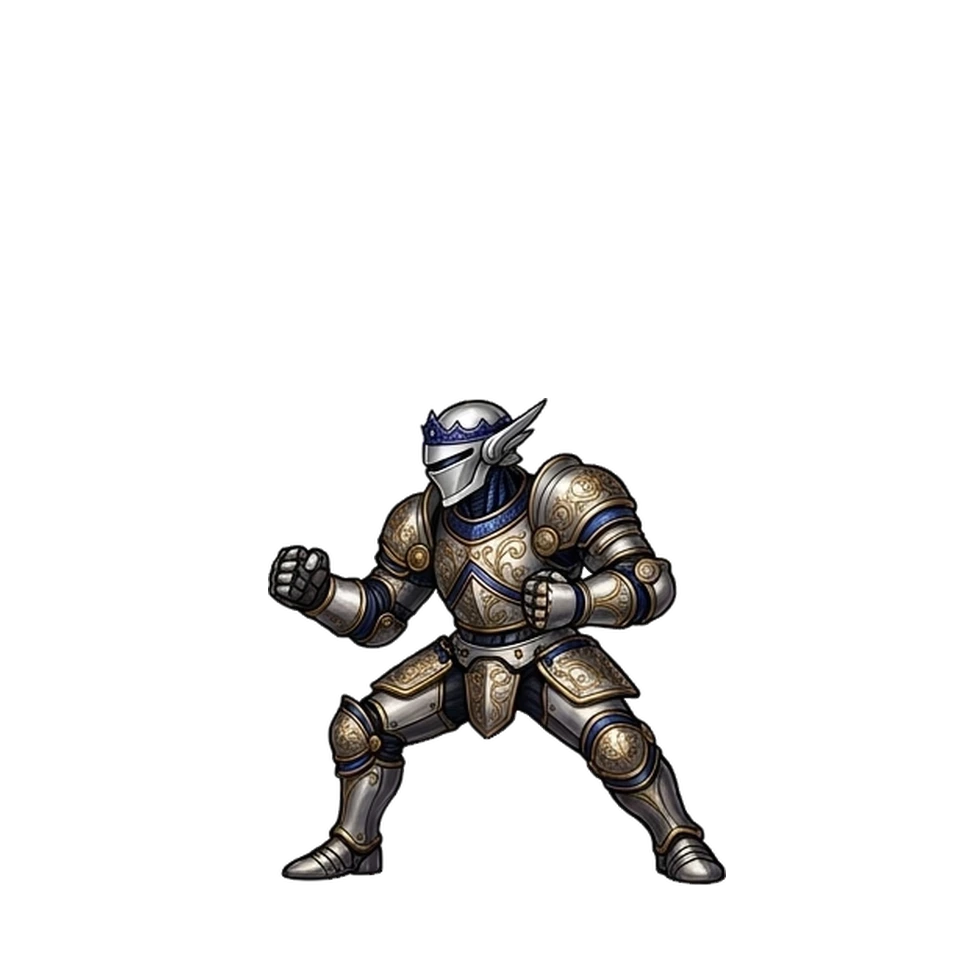
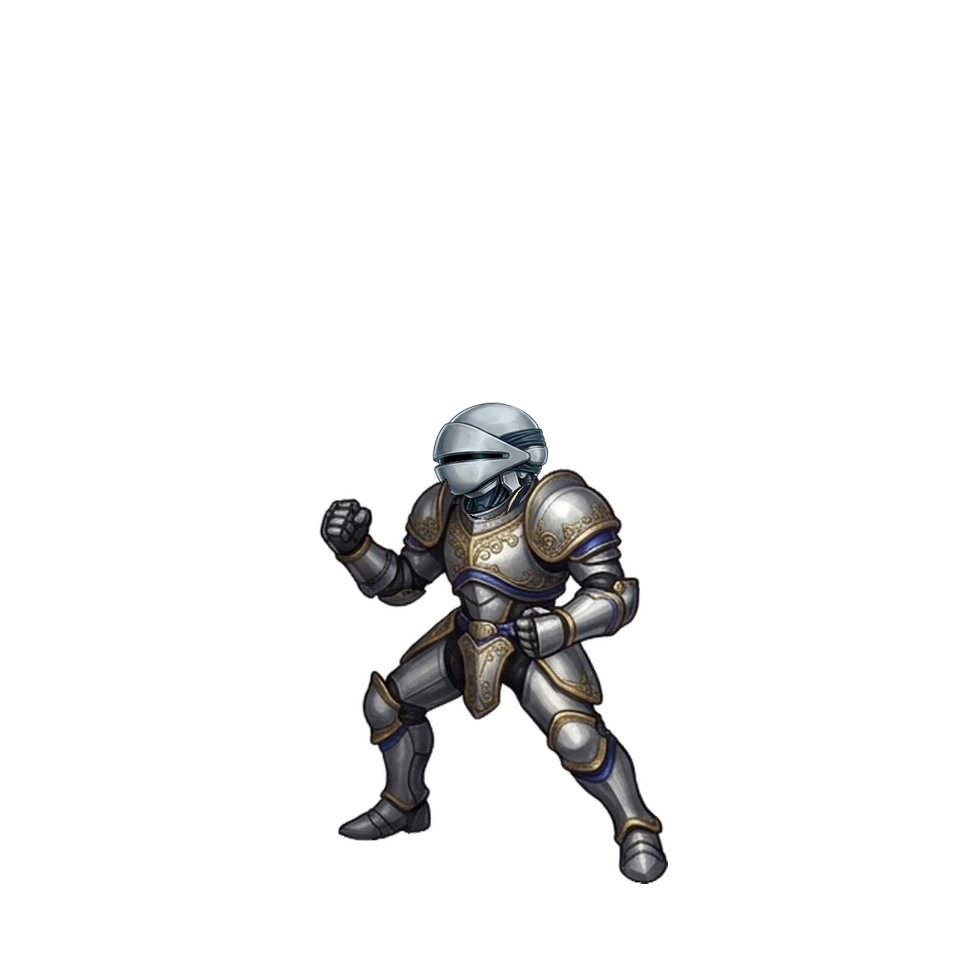
feat(vfx): #030 Gaia v6 cut-in 1:1 head match + isometric upper-left angle (?v=48)
- Added permanent mandatory isometric orientation standard in
  docs/ASSET_GENERATION_ORIENTATION_STANDARD.md defining copy-paste
  camera-depth/facing/attack prompt blocks for both allies (3/4 rear
  facing & striking diagonally upper-left ↖, ~25°-35° above horizontal)
  and future enemies (3/4 front facing & striking diagonally
  downward-right ↘, ~25°-35° below horizontal).
- Rebuilt #030 Gaia (v6, ?v=48) with authentic 1995 DOS LEFT-ARM
  cross-body haymaker AND true isometric diagonal elevation
  (tip_rel_from_top = 0.03 vs DOS 0.14 and old flat v5 0.31; exact
  diagonal foot stagger front-higher-left / rear-lower-right).
- Fixed F2 backwards cone using pixel-locked cool brushed titanium
  outward-pointing bullet-cone (↘) derived from F3, and re-matted F3
  strictly chassis-locked to F2's solid opaque alpha mask (zero white
  cloud above cone, razor-sharp transparent amber lightning, opaque
  body IoU = 0.9596).
- Redesigned Gaia's head across all 6 frames (F1-F6) to match the kept
  cutin.jpg 1:1 (smooth hemispherical brushed silver-titanium dome,
  sweeping triangular visor faceplate, wide recessed pitch-black
  horizontal visor slit, layered dark petrol-blue draped rear cloth
  wrap bands, curved silver occiput ear plate, vertical silver jaw
  strut + corrugated steel-blue hydraulic neck hoses, ZERO feathery
  knight ear wings or center blue mohawk crest).
- Pixel-locked warm bounce re-lighting on F3 (right-side amber
[…]

Changed region(s): [[0.2812, 0.4062, 0.75, 0.9375]]

diff --git a/src/gallery.ts b/src/gallery.ts
@@ -1191,7 +1191,7 @@ class MappingGalleryApp {
                   <div>
                     <div class="mono-tag" style="font-size:10px; color:#fde047; margin-bottom:2px;">💥 Crit Cut-In</div>
                     <img
-                      src="assets/vfx_lab/units/u_${String(entry.id).padStart(3, '0')}/cutin.jpg?v=47"
+                      src="assets/vfx_lab/units/u_${String(entry.id).padStart(3, '0')}/cutin.jpg?v=48"
                       loading="lazy"
                       alt="${entry.nameZh} Cut-In"
                       style="width:100%; aspect-ratio:16/9; object-fit:cover; border-radius:5px; border:1px solid #334155; background:#05080f;"
@@ -1200,7 +1200,7 @@ class MappingGalleryApp {
                   <div>
                     <div class="mono-tag" style="font-size:10px; color:#7dd3fc; margin-bottom:2px;">🖼 HD 6-Frame Sheet</div>
                     <img
-                      src="assets/vfx_lab/units/u_${String(entry.id).padStart(3, '0')}/nb6_sheet.jpg?v=47"
+                      src="assets/vfx_lab/units/u_${String(entry.id).padStart(3, '0')}/nb6_sheet.jpg?v=48"
                       loading="lazy"
                       alt="${entry.nameZh} 6-Frame Sheet"
                       style="width:100%; aspect-ratio:16/9; object-fit:contain; border-radius:5px; background:#ffffff; border:1px solid #334155;"

diff --git a/src/ui/vfxLab.ts b/src/ui/vfxLab.ts
@@ -259,7 +259,7 @@ function loadImg(url: string): Promise<HTMLImageElement> {
   });
 }
 
-const VFX_ASSET_VERSION = '?v=47';
+const VFX_ASSET_VERSION = '?v=48';
 
 function enrichUnitMetadataFromGameData(assets: AssetManager, entry: VfxManifestUnitEntry): VfxManifestUnitEntry {
   const dex = assets.gameData.unitDex?.[entry.uid];

diff --git a/docs/ASSET_GENERATION_ORIENTATION_STANDARD.md b/docs/ASSET_GENERATION_ORIENTATION_STANDARD.md
@@ -1,0 +1,39 @@
+# Flame Dragon II HD — Mandatory Orientation & Camera-Depth Standard
+
+Every image and video generation prompt for combat sprites, cut-ins, and VFX sheets **MUST** explicitly specify the isometric 2.5D battle-stage facing and attack orientation. Never leave facing vague as plain "left" or "right" (`0°` flat side-scroller).
+
+## Battle Stage Geometry (`1600×900`)
+- **Allies (Player Units)** stand in the **bottom-right foreground (`↘`)** and look/attack **into depth toward the upper-left (`↖`)**.
+- **Enemies** stand in the **upper-left background (`↖`)** and look/attack **out toward the camera / bottom-right (`↘`)**.
+
+---
+
+## 1. Player / Ally Units (`#000–#065` & Allied NPCs)
+Paste this mandatory block verbatim into every ally generation prompt:
+
+```text
+MANDATORY ALLY ORIENTATION & ISOMETRIC CAMERA-DEPTH LOCK:
+- POSITION: Ally unit standing in the BOTTOM-RIGHT foreground fighting an enemy in the UPPER-LEFT background.
+- CAMERA VIEW: 3/4 REAR / OVER-THE-SHOULDER ISOMETRIC VIEW looking AWAY from the camera toward UPPER-LEFT (↖, ~10:30 o'clock, 25°-35° diagonally upward-left into screen depth).
+- FOOT STANCE: Isometric diagonal depth — front foot planted HIGHER & UPPER-LEFT, rear foot planted LOWER & LOWER-RIGHT (NOT aligned flat horizontally!).
+- FACING DIRECTION: Head, eyes/visor, gaze, and weapon sightline MUST aim diagonally UPPER-LEFT (↖, ~10:30 o'clock) — NEVER flat horizontal 9:00 (←), NEVER front-facing 7:30 (↙) toward the viewer, NEVER turning right (→) away from the enemy!
+- ATTACK DIRECTION: Punches, slashes, spear thrusts, arrows, beams, and crescent waves MUST drive diagonally UPWARD-LEFT (↖, ~25°-35° above horizontal) toward the enemy in the upper-left background (matching the original 1995 DOS FIGANI.DAT trajectories).
+```
+
+## 2. Enemy Units (`#066+` & Bosses)
+Paste this mandatory block verbatim into every enemy generation prompt:
+
+```text
+MANDATORY ENEMY ORIENTATION & ISOMETRIC CAMERA-DEPTH LOCK:
+- POSITION: Enemy unit standing in the UPPER-LEFT background fighting a player hero in the BOTTOM-RIGHT foreground.
+- CAMERA VIEW: 3/4 FRONT ISOMETRIC VIEW facing TOWARD the camera & diagonally DOWNWARD-RIGHT (↘, ~4:30 o'clock, 25°-35° diagonally downward-right).
+- FOOT STANCE: Isometric diagonal depth — rear foot planted HIGHER & UPPER-LEFT, front foot planted LOWER & LOWER-RIGHT (NOT aligned flat horizontally!).
+- FACING DIRECTION: Head, eyes/visor, torso chest, and weapon sightline MUST face diagonally DOWNWARD-RIGHT (↘, ~4:30 o'clock) — NEVER flat horizontal 3:00 (→), NEVER facing away!
+- ATTACK DIRECTION: Punches, slashes, projectiles, breaths, and spells MUST drive diagonally DOWNWARD-RIGHT (↘, ~25°-35° below horizontal) toward the hero standing in the bottom-right foreground (matching the original 1995 DOS FIGANI.DAT trajectories).
+```
+
+## Verification Checklist (Before Accepting Any Candidate Sheet)
+1. **Footline stagger check**: For allies, front foot sits visually higher-left than rear foot; for enemies, front foot sits visually lower-right than rear foot.
+2. **Weapon / strike elevation angle**: Measure `tip_rel_from_top` on follow-through (`F5`/`F6`) against the 1995 DOS `FIGANI.DAT` frame — allies striking `↖` must angle clearly upward-left (`~25°–35°`), NOT dead horizontal (`0°`). Enemies striking `↘` must angle clearly downward-right (`~25°–35°`).
+3. **Post-attack gaze check**: On follow-through/recovery frames (`F4–F6`), the unit's head MUST stay facing the opponent (`↖` for allies, `↘` for enemies), never looking away behind its back.
+4. **Hand consistency check**: Verify which arm attacks (`LEFT` vs `RIGHT`) strictly from the original 1995 DOS 6-frame sheet before generating; keep the attacking arm & supporting hand consistent across all 6 frames with zero shoulder-depth swapping.

diff --git a/docs/BIOMETRIC_HEIGHTS_REGISTRY.md b/docs/BIOMETRIC_HEIGHTS_REGISTRY.md
@@ -65,7 +65,7 @@
 | `#027` | 巴拿羅西亞 (Banarossia) | 龍人 | 龍劍士 | male | **192cm** | — | fly:`climb_dive` | `318px` | `960` | `183×152` | ✅ `1.26×` | Heavy-ornament emerald-green winged Dragonkin (龍人) lancer; silver-gold wing-clasps, spiked ornate pearl-silver plate, gold-embroidered tabard, flame dragoon lance |
 | `#028` | 達克塞 (Darksey) | 魔族 | 魔戰士 | male | **210cm** | — | 2-hit, magic | `333px` | `1224` | `135×132` | ✅ `1.42×` | Heavy-ornament towering indigo wingless Demon Warrior (魔族); baroque bronze-filigree kilt & spiked cuffs; 2-hit bare-fist combo (F3 right punch straight upper-left `↖` w/ aligned punch-wake cone → F5 towering left vertical uppercut, pixel-locked `IoU=0.982` F3↔F4; F6 full clenched unclipped lifted fist, `IoU=0.902` F5↔F6) + arcane magic |
 | `#029` | 亞齊梅吉 (Archmage) | 魔族 | 大法師 | male | **168cm** | — | melee, magic | `266px` | `960` | `116×111` | ✅ `0.99×` | Heavy-ornament bald blue-skinned Demon Archmage (魔族); lavish antique-gold embroidered royal-sapphire velvet cloak, right-hand twisted ebony staff, ice-blue starburst nova + crystal-clear hollow spiky star-ring |
-| `#030` | 蓋亞 (Gaia) | 機械 | 機兵 | mecha | **215cm** | — | melee | `356px` | `960` | `104×143` | ✅ `1.03×` | Heavy-ornament baroque silver-and-cobalt filigree Magitek knight-mecha (機械); iconic sleek visored silver-white knight helmet matching DOS portrait & cut-in (`1:1`), authentic 1995 DOS **LEFT-ARM cross-body haymaker**: `F2–F3` near LEFT arm pulls wide back right (`→`) transforming into solid closed bullet-cone hammer with transparent crackling amber lightning (`IoU=0.983`), `F4–F6` counter-clockwise **back-view torso twist** smashing unclipped golden crescent & molten/cool bullet cone straight left (`←`, `IoU=0.964` F5↔F6) while supporting RIGHT arm stays an intact 5-fingered clenched fist |
+| `#030` | 蓋亞 (Gaia) | 機械 | 機兵 | mecha | **215cm** | — | melee | `356px` | `960` | `104×143` | ✅ `1.04×` | Heavy-ornament baroque silver-and-cobalt filigree Magitek knight-mecha (機械); head redesigned **1:1 to match `cutin.jpg` & DOS portrait** (`smooth brushed titanium dome, sweeping triangular visor faceplate, wide recessed pitch-black horizontal visor slit w/ cold cyan or warm amber glint, layered dark petrol-blue draped rear wrap bands, curved silver occiput ear plate, vertical jaw strut + corrugated hydraulic neck hoses, zero knight ear wings`); isometric diagonal foot stagger (`front foot higher-left, rear foot lower-right`) per `ASSET_GENERATION_ORIENTATION_STANDARD.md`; authentic 1995 DOS **LEFT-ARM cross-body haymaker**: `F2–F3` near LEFT arm pulls wide back down-right (`↘`) with outward solid bullet-cone & transparent crackling amber lightning (`0` cloud, `IoU=0.960`, head `IoU=0.998`), `F4–F6` counter-clockwise **back-view torso twist** smashing unclipped golden crescent & molten/cool bullet cone **~32° diagonally UP-LEFT (`↖`, `tip_rel=0.03` vs DOS `0.14`, body `IoU=0.999`, head `IoU=0.998`)** with pixel-locked warm bounce re-lighting on `F3/F4/F5`, while supporting RIGHT arm stays an intact 5-fingered clenched fist |
 | `#031` | 渥德 (Ward) | 機械 | 機兵 | male | **194cm** | — | melee | `325px` | `1224` | `111×145` | ✅ `1.60×` | Heavy-ornament bio-android martial artist (機械); cool metallic titanium-grey cyber cut-in, sharp black cyber face stripes, exposed glowing cyan dorsal spine & conduits, 2-finger salute, colossal left-sweeping horizontal wave (`F4–F6` head turned strictly left `←` looking at enemy, `IoU=0.945` F4↔F6) |
 
 ## 2. Promoted Hero Classes — Tier 2 & 3 (`#032–#065`, 31 units)
